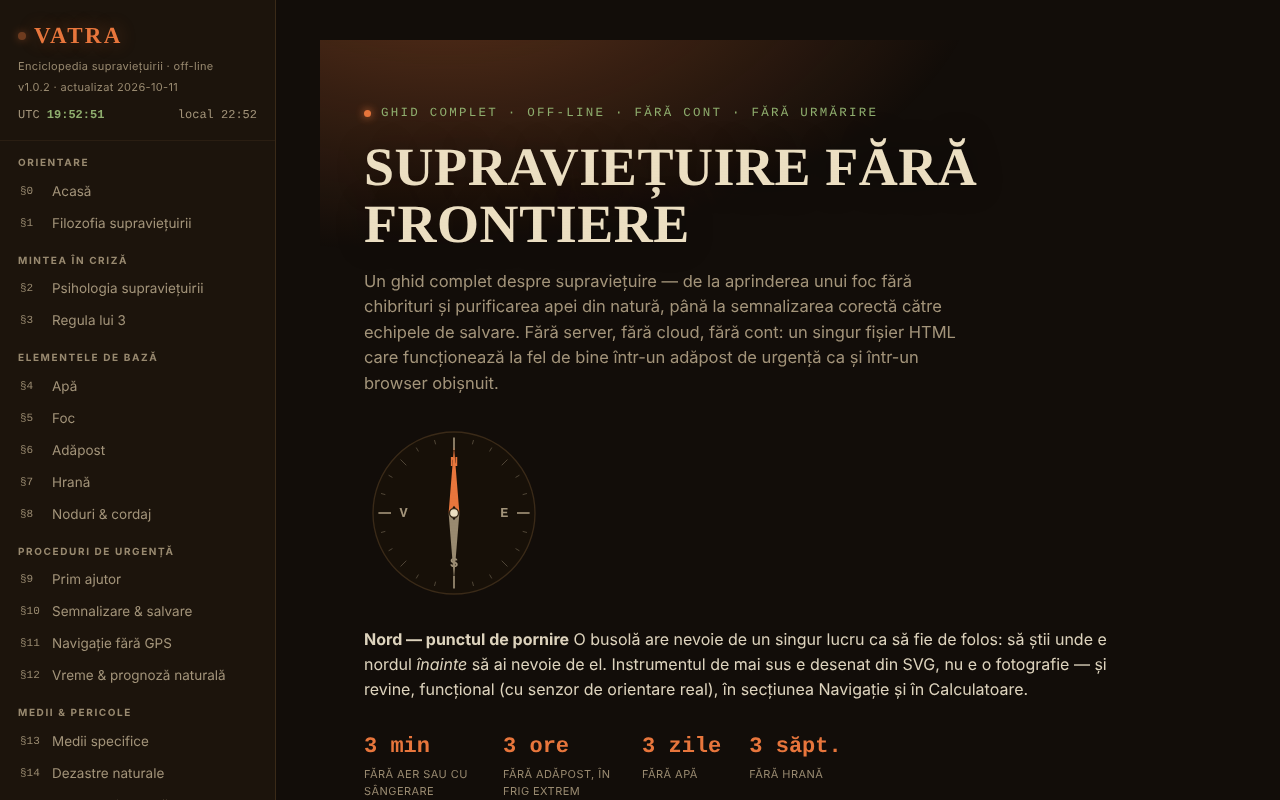
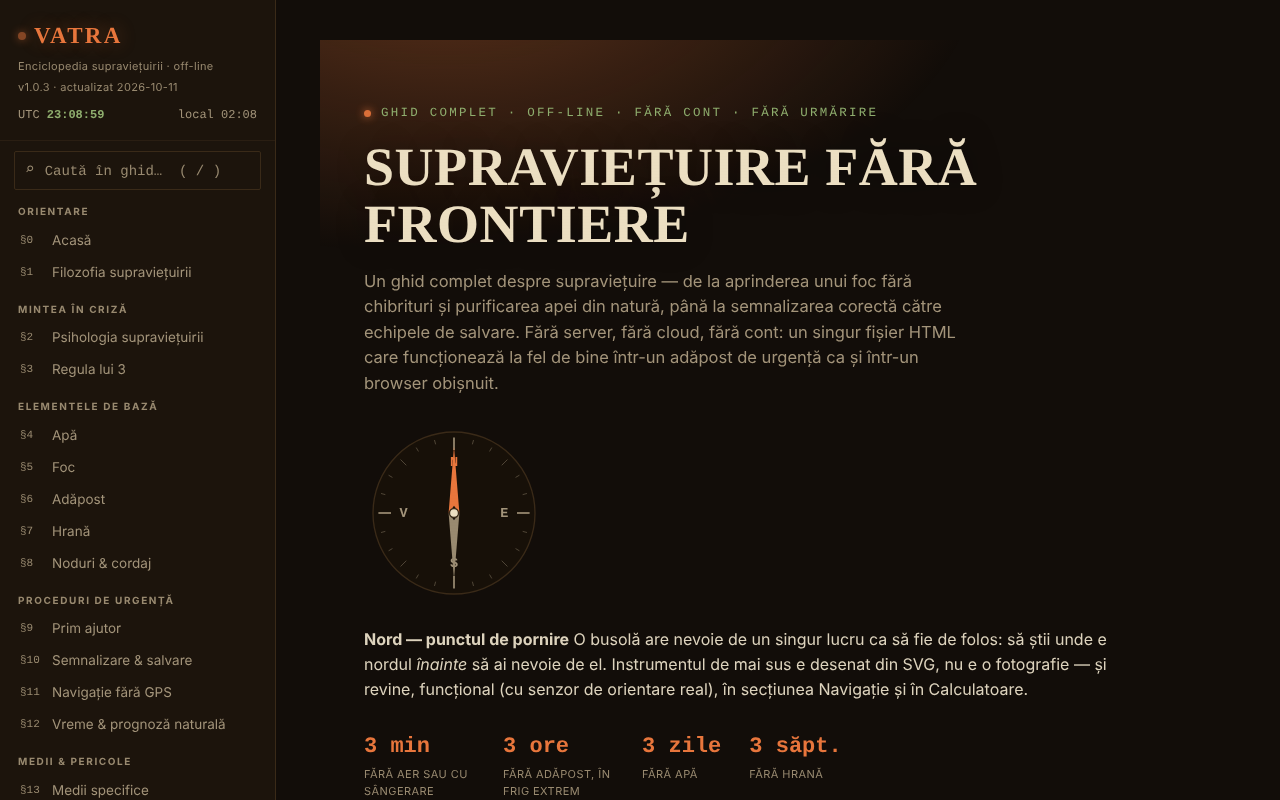
Runda 7 (11 octombrie 2026): defecte noi reparate, hash CSP, îmbunătățiri
Claude-Session: https://claude.ai/code/session_01D2sCEb3hy3nutYexhUfQFs

Changed region(s): [[0.0, 0.1875, 0.1562, 1.0]]

diff --git a/index.html b/index.html
@@ -2,7 +2,7 @@
 <html lang="ro">
 <head>
 <meta charset="UTF-8">
-<meta http-equiv="Content-Security-Policy" content="default-src 'none'; script-src 'sha256-YhkZ++vHW0waBm5ddEx1tcelj6ClAPIL3rGZ1wd2id8='; style-src 'unsafe-inline'; img-src data: blob:; font-src data:; media-src data: blob:; connect-src 'none'; base-uri 'none'; form-action 'none'">
+<meta http-equiv="Content-Security-Policy" content="default-src 'none'; script-src 'sha256-3oDHMwztBY44f1qQMr5GfgrrpGqGWcKDNtuKpyQ6BxY='; style-src 'unsafe-inline'; img-src data: blob:; font-src data:; media-src data: blob:; connect-src 'none'; base-uri 'none'; form-action 'none'">
 <meta name="viewport" content="width=device-width, initial-scale=1.0">
 <title>VATRA — Enciclopedia supraviețuirii</title>
 <meta name="description" content="Ghid complet, off-line, despre supraviețuire: apă, foc, adăpost, hrană, prim ajutor, navigație fără GPS, semnalizare, dezastre naturale și multe altele.">
@@ -254,6 +254,13 @@ tr:hover td{background:var(--panel-2);color:var(--ink);}
 .searchbox .ico{color:var(--ink-faint);font-family:var(--font-mono);}
 .count-pill{font-family:var(--font-mono);font-size:11px;color:var(--ink-faint);background:var(--panel-2);padding:2px 8px;border-radius:20px;}
 
+.gsearch{margin:10px 14px 4px;padding:6px 10px;}
+.gsearch input{min-width:0;}
+.gs-item{display:block;width:100%;text-align:left;background:var(--panel);border:1px solid var(--line);border-radius:var(--radius);padding:10px 14px;margin:0 0 8px;cursor:pointer;color:var(--ink-dim);font-family:var(--font-body);font-size:13.5px;line-height:1.5;}
+.gs-item:hover,.gs-item:focus-visible{border-color:var(--ember);color:var(--ink);}
+.gs-item .gs-sec{display:block;font-family:var(--font-mono);font-size:11px;color:var(--ember);margin-bottom:2px;}
+.gs-item mark{background:none;color:var(--ink);font-weight:700;text-decoration:underline;text-decoration-color:var(--ember);text-underline-offset:2px;}
+.gs-hit{outline:2px solid var(--ember);outline-offset:4px;border-radius:3px;}
 /* ---------- buttons ---------- */
 .btn{
   background:var(--panel-2);color:var(--ink);border:1px solid var(--line);padding:9px 16px;
@@ -453,8 +460,13 @@ kbd{font-family:var(--font-mono);background:var(--panel-2);border:1px solid var(
   <div class="brandblock">
     <div class="brand"><span class="dot"></span> VATRA</div>
     <div class="tagline">Enciclopedia supraviețuirii · off-line</div>
-    <div class="tagline">v1.0.2 · actualizat 2026-10-11</div>
+    <div class="tagline">v1.0.3 · actualizat 2026-10-11</div>
     <div class="clock"><span>UTC <b id="utcClock">--:--:--</b></span><span id="localClock">local --:--</span></div>
+  </div>
+
+  <div class="searchbox gsearch" role="search">
+    <span class="ico" aria-hidden="true">⌕</span>
+    <input type="search" id="gSearch" aria-label="Caută în tot ghidul" aria-keyshortcuts="/" autocomplete="off" placeholder="Caută în ghid…  ( / )">
   </div>
 
   <div class="navgroup">
@@ -528,6 +540,13 @@ kbd{font-family:var(--font-mono);background:var(--panel-2);border:1px solid var(
 </nav>
 
 <main id="main">
+<section class="section" id="sec-cautare" aria-labelledby="gsTitle">
+  <div class="eyebrow">Căutare în tot ghidul</div>
+  <h2 id="gsTitle">Rezultate căutare</h2>
+  <p class="lede" id="gsInfo" role="status" aria-live="polite">Scrie cel puțin două litere în câmpul „Caută în tot ghidul”. Diacriticele sunt ignorate.</p>
+  <div class="qlist" id="gsList"></div>
+</section>
+
 <section class="section active" id="sec-acasa">
   <div class="hero">
     <div class="callout"><span class="dot"></span> GHID COMPLET · OFF-LINE · FĂRĂ CONT · FĂRĂ URMĂRIRE</div>
@@ -1529,7 +1548,7 @@ kbd{font-family:var(--font-mono);background:var(--panel-2);border:1px solid var(
       <input type="file" id="noteImportFile" accept="application/json" style="display:none;">
     </div>
     <div id="noteStatus" style="font-size:12px;color:var(--ink-faint);"></div>
-    <dl id="noteList" style="margin:10px 0 0;"></dl>
+    <div id="noteList" style="margin:10px 0 0;"></div>
   </div>
 </section>
 
@@ -1562,7 +1581,7 @@ kbd{font-family:var(--font-mono);background:var(--panel-2);border:1px solid var(
     </div>
   </div>
   <div style="margin-top:18px;font-size:11.5px;color:var(--ink-faint);line-height:1.7;">
-    <b style="color:var(--ink-dim);">Istoric</b> — <span class="mono">v1.0.2</span> (2026-10-11): salvare automată locală a trusei, notițelor, progresului și temei; politică CSP cu hash pentru script. <span class="mono">v1.0.1</span> (2026-10-11): titlul se afișează fără caractere aleatoare, structură de titluri și repere corectate (accesibilitate), politică CSP, date despre urși și legislație actualizate cu surse. <span class="mono">v1.0</span> (2026-08-06): versiune inițială, 21 de secțiuni, calculatoare de apă/calorii/hipotermie/hipertermie/azimut, busolă live, trainer SOS, test de cunoștințe cu repetiție spațiată, trusă de urgență interactivă, glosar cu notițe proprii.
+    <b style="color:var(--ink-dim);">Istoric</b> — <span class="mono">v1.0.3</span> (2026-10-11): căutare în tot ghidul (scurtătura „/”), titluri de nivel 1 pe toate secțiunile, tabele derulabile accesibile de la tastatură. <span class="mono">v1.0.2</span> (2026-10-11): salvare automată locală a trusei, notițelor, progresului și temei; politică CSP cu hash pentru script. <span class="mono">v1.0.1</span> (2026-10-11): titlul se afișează fără caractere aleatoare, structură de titluri și repere corectate (accesibilitate), politică CSP, date despre urși și legislație actualizate cu surse. <span class="mono">v1.0</span> (2026-08-06): versiune inițială, 21 de secțiuni, calculatoare de apă/calorii/hipotermie/hipertermie/azimut, busolă live, trainer SOS, test de cunoștințe cu repetiție spațiată, trusă de urgență interactivă, glosar cu notițe proprii.
   </div>
   <div class="legal">
     Conținut educațional general, verificat la 2026-08-06 (actualizat la 2026-10-11) — dar nu înlocuiește un curs certificat de prim ajutor sau de supraviețuire, echipa de salvare locală, sau evaluarea medicală de specialitate. Într-o urgență reală, în România, sună <b>112</b>. Fără cookie-uri, fără analytics, fără apeluri către niciun server — tot ce vezi rulează local, în browserul tău, iar starea introdusă (bife, note, scoruri) există doar cât ține fila deschisă, dacă n-o exporți.
@@ -2204,6 +2223,7 @@ function renderNotes(){
     return;
   }
   list.innerHTML = '';
+  const noteDl = document.createElement('dl'); noteDl.style.margin = '0'; list.appendChild(noteDl);
   personalNotes.forEach((n,i)=>{
     const item = document.createElement('div');
     item.className = 'glossitem';
@@ -2218,7 +2238,7 @@ function renderNotes(){
     const dd = document.createElement('dd');
     dd.textContent = n.def; // textContent, deliberat — chiar dacă notițele ajung exportate/reimportate de altcineva, nu se execută niciodată ca HTML
     item.appendChild(dt); item.appendChild(dd);
-    list.appendChild(item);
+    noteDl.appendChild(item);
   });
 }
 function addNote(){
@@ -2476,21 +2496,109 @@ async function checkFileIntegrity(){
 /* ============================================================
    NAV / DRAWER / TEMĂ / CEAS / HERO
    ============================================================ */
+function showSection(sec, btn){
+  $$('.section').forEach(s=>s.classList.remove('active'));
+  const target = document.getElementById('sec-'+sec);
+  if(target) target.classList.add('active');
+  const br = document.querySelector('.brandblock .brand');
+  if(br){ if(sec!=='acasa'){ br.setAttribute('role','heading'); br.setAttribute('aria-level','1'); } else { br.removeAttribute('role'); br.removeAttribute('aria-level'); } }
+  $$('.navlink').forEach(b=>b.classList.toggle('active', b===btn));
+  updateReportLink(target);
+  stopSOS();
+  if(sec!=='navigatie') stopCompass();
+  window.scrollTo(0,0);
+  closeDrawer();
+  return target;
+}
 function initNav(){
   $$('.navlink').forEach(btn=>{
-    btn.addEventListener('click', ()=>{
-      const sec = btn.dataset.sec;
-      $$('.section').forEach(s=>s.classList.remove('active'));
-      const target = document.getElementById('sec-'+sec);
-      if(target) target.classList.add('active');
-      $$('.navlink').forEach(b=>b.classList.remove('active'));
-      btn.classList.add('active');
-      updateReportLink(target);
-      stopSOS();
-      if(sec!=='navigatie') stopCompass();
-      window.scrollTo(0,0);
-      closeDrawer();
+    btn.addEventListener('click', ()=>{ showSection(btn.dataset.sec, btn); });
+  });
+}
+/* ---------- căutare în tot ghidul ---------- */
+let gsIndex = null;
+const gsNorm = s=>String(s).normalize('NFD').replace(/[\u0300-\u036f]/g,'').toLowerCase();
+function gsBuild(){
+  gsIndex = [];
+  $$('.section').forEach(sec=>{
+    if(sec.id==='sec-cautare') return;
+    const id = sec.id.replace('sec-','');
+    const nl = document.querySelector('.navlink[data-sec="'+id+'"]');
+    const label = nl ? nl.textContent.trim() : (sec.querySelector('h2')?.textContent||id);
+    sec.querySelectorAll('h2,h3,h4,p,li,td,dd,dt,.note,.lede').forEach(el=>{
+      if(el.querySelector('p,li,td,dd,dt,h3,h4,.note')) return;
+      if(el.closest('input,textarea,select,script,style')) return;
+      const text = el.textContent.replace(/\s+/g,' ').trim();
+      if(text.length < 3) return;
+      gsIndex.push({sec:id, label, el, text, n:gsNorm(text), head:/^H[234]$/.test(el.tagName)});
     });
+  });
+}
+function gsRender(q){
+  const list = $('#gsList'), info = $('#gsInfo');
+  list.textContent = '';
+  const nq = gsNorm(q.trim());
+  if(nq.length < 2){ info.textContent = 'Scrie cel puțin două litere în câmpul „Caută în tot ghidul”. Diacriticele sunt ignorate.'; return; }
+  if(!gsIndex) gsBuild();
+  const words = nq.split(/\s+/).filter(Boolean);
+  const hits = gsIndex.filter(e=>words.every(w=>e.n.indexOf(w)!==-1));
+  hits.sort((a,b)=>(b.head-a.head)||(a.n.indexOf(words[0])-b.n.indexOf(words[0])));
+  const shown = hits.slice(0,40);
+  info.textContent = hits.length ? (hits.length+(hits.length===1?' rezultat':' rezultate')+(hits.length>shown.length?' (primele '+shown.length+')':'')+' pentru „'+q.trim()+'”.') : 'Niciun rezultat pentru „'+q.trim()+'”. Încearcă un cuvânt mai scurt sau altă formulare.';
+  shown.forEach(e=>{
+    const b = document.createElement('button'); b.type='button'; b.className='gs-item';
+    const lab = document.createElement('span'); lab.className='gs-sec'; lab.textContent = e.label; b.appendChild(lab);
+    let start = Math.max(0, e.n.indexOf(words[0]) - 50);
+    const txt = e.text.length===e.n.length ? e.text : e.text; // NFD poate schimba lungimea doar pentru caractere compuse rare
+    const piece = txt.slice(start, start+160);
+    const np = gsNorm(piece);
+    const frag = document.createDocumentFragment();
+    if(start>0) frag.appendChild(document.createTextNode('…'));
+    if(np.length===piece.length){
+      const re = words.map(w=>w.replace(/[.*+?^${}()|[\]\\]/g,'\\$&')).join('|');
+      let last = 0; const rx = new RegExp(re,'g'); let m;
+      while((m = rx.exec(np)) && m[0].length){
+        if(m.index>last) frag.appendChild(document.createTextNode(piece.slice(last,m.index)));
+        const mk = document.createElement('mark'); mk.textContent = piece.slice(m.index, m.index+m[0].length); frag.appendChild(mk);
+        last = m.index+m[0].length;
+      }
+      frag.appendChild(document.createTextNode(piece.slice(last)));
+    } else frag.appendChild(document.createTextNode(piece));
+    if(start+160<txt.length) frag.appendChild(document.createTextNode('…'));
+    b.appendChild(frag);
+    b.addEventListener('click', ()=>{
+      const nl = document.querySelector('.navlink[data-sec="'+e.sec+'"]');
+      showSection(e.sec, nl);
+      e.el.scrollIntoView({block:'center'});
+      e.el.classList.add('gs-hit'); setTimeout(()=>e.el.classList.remove('gs-hit'), 2500);
+    });
+    list.appendChild(b);
+  });
+}
+function initScrollRegions(){
+  $$('.tbl-wrap').forEach((w,i)=>{ w.setAttribute('tabindex','0'); w.setAttribute('role','region'); if(!w.getAttribute('aria-label')){ const sec = w.closest('.section'); const h = sec && sec.querySelector('h2'); w.setAttribute('aria-label','Tabel '+(i+1)+(h?' — '+h.textContent.trim():'')); } });
+}
+function initGlobalSearch(){
+  const inp = $('#gSearch');
+  let t = null;
+  inp.addEventListener('input', ()=>{
+    clearTimeout(t);
+    t = setTimeout(()=>{
+      if(inp.value.trim().length < 2) return;
+      showSection('cautare', null);
+      gsRender(inp.value);
+    }, 200);
+  });
+  inp.addEventListener('keydown', e=>{
+    if(e.key==='Enter'){ e.preventDefault(); clearTimeout(t); if(inp.value.trim().length>=2){ showSection('cautare', null); gsRender(inp.value); } }
+    if(e.key==='Escape'){ inp.value=''; gsRender(''); }
+  });
+  document.addEventListener('keydown', e=>{
+    if(e.key==='/' && !e.ctrlKey && !e.metaKey && !e.altKey && !/^(INPUT|TEXTAREA|SELECT)$/.test((document.activeElement||{}).tagName||'')){
+      e.preventDefault();
+      if(window.matchMedia && window.matchMedia('(max-width:980px)').matches) openDrawer();
+      inp.focus();
+    }
   });
 }
 function openDrawer(){
@@ -2563,6 +2671,8 @@ function init(){
   // Navigare, sertar, temă, ceas, titlu
   restoreLocal();
   initNav();
+  initGlobalSearch();
+  initScrollRegions();
   initDrawer();
   initTheme();
   initAutosave();

diff --git a/README.md b/README.md
@@ -4,7 +4,7 @@
 
 ![VATRA — captură de ecran / screenshot](screenshot.png)
 
-**Ultima actualizare:** 11 octombrie 2026 · versiune 1.0.2
+**Ultima actualizare:** 11 octombrie 2026 · versiune 1.0.3
 
 
 Ghid de supraviețuire într-un singur fișier HTML (`index.html`), în română: ~21 de secțiuni (apă, foc, adăpost, hrană, noduri, prim ajutor, semnalizare, navigație fără GPS, vreme, medii, dezastre, faună periculoasă, resurse pentru România), trusă de urgență interactivă, calculatoare (apă, calorii, hipotermie/hipertermie, azimut), busolă, glosar și test de cunoștințe.
@@ -12,6 +12,7 @@ Ghid de supraviețuire într-un singur fișier HTML (`index.html`), în română
 **Conținut educațional general; nu înlocuiește un curs certificat de prim ajutor sau de supraviețuire, echipa de salvare locală sau evaluarea medicală de specialitate.** În urgență, în România, sună 112. Informațiile din ghid (inclusiv cifre, numere de contact, date despre faună sau legislație) pot deveni depășite; verifică sursele oficiale. Calculatoarele sunt orientative.
 
 ## Utilizare
+Caută în tot ghidul din câmpul din bara laterală (scurtătura `/`).
 Deschide `index.html` în browser (sau varianta publicată prin GitHub Pages); funcționează offline. Temă „Noapte”/„Zi” în bara laterală (alegerea se păstrează). Bifele trusei, notițele proprii, progresul testului și tema se salvează automat local în browser (`localStorage`, cheia `vatra:v1`); le poți șterge din bara laterală („Șterge datele salvate în browser”) sau exporta/importa ca fișier.
 
 ## Date și confidențialitate
@@ -29,6 +30,10 @@ Linkul „Raportează o eroare” (GitHub) trimite acum la `chiuta/vatra`. Indic
 Audit: 2026-10-10
 
 ## Istoric / Changelog
+
+### 1.0.3 — 11 octombrie 2026 (runda 7)
+- Nou: căutare în tot ghidul (câmp în bara laterală, scurtătura `/`; fără diacritice, rezultate cu fragment și salt la pasajul găsit).
+- Reparat: pe secțiunile în afară de Acasă pagina nu avea niciun titlu de nivel 1 (axe-core `page-has-heading-one`); acum antetul „VATRA” din bara laterală devine titlu de nivel 1 în afara paginii Acasă.
 
 ### 1.0.2 — 11 octombrie 2026 (runda 6)
 - Adăugat: salvare automată locală a trusei, notițelor, progresului testului și temei (cu buton de ștergere); CSP cu `script-src` pe hash.
